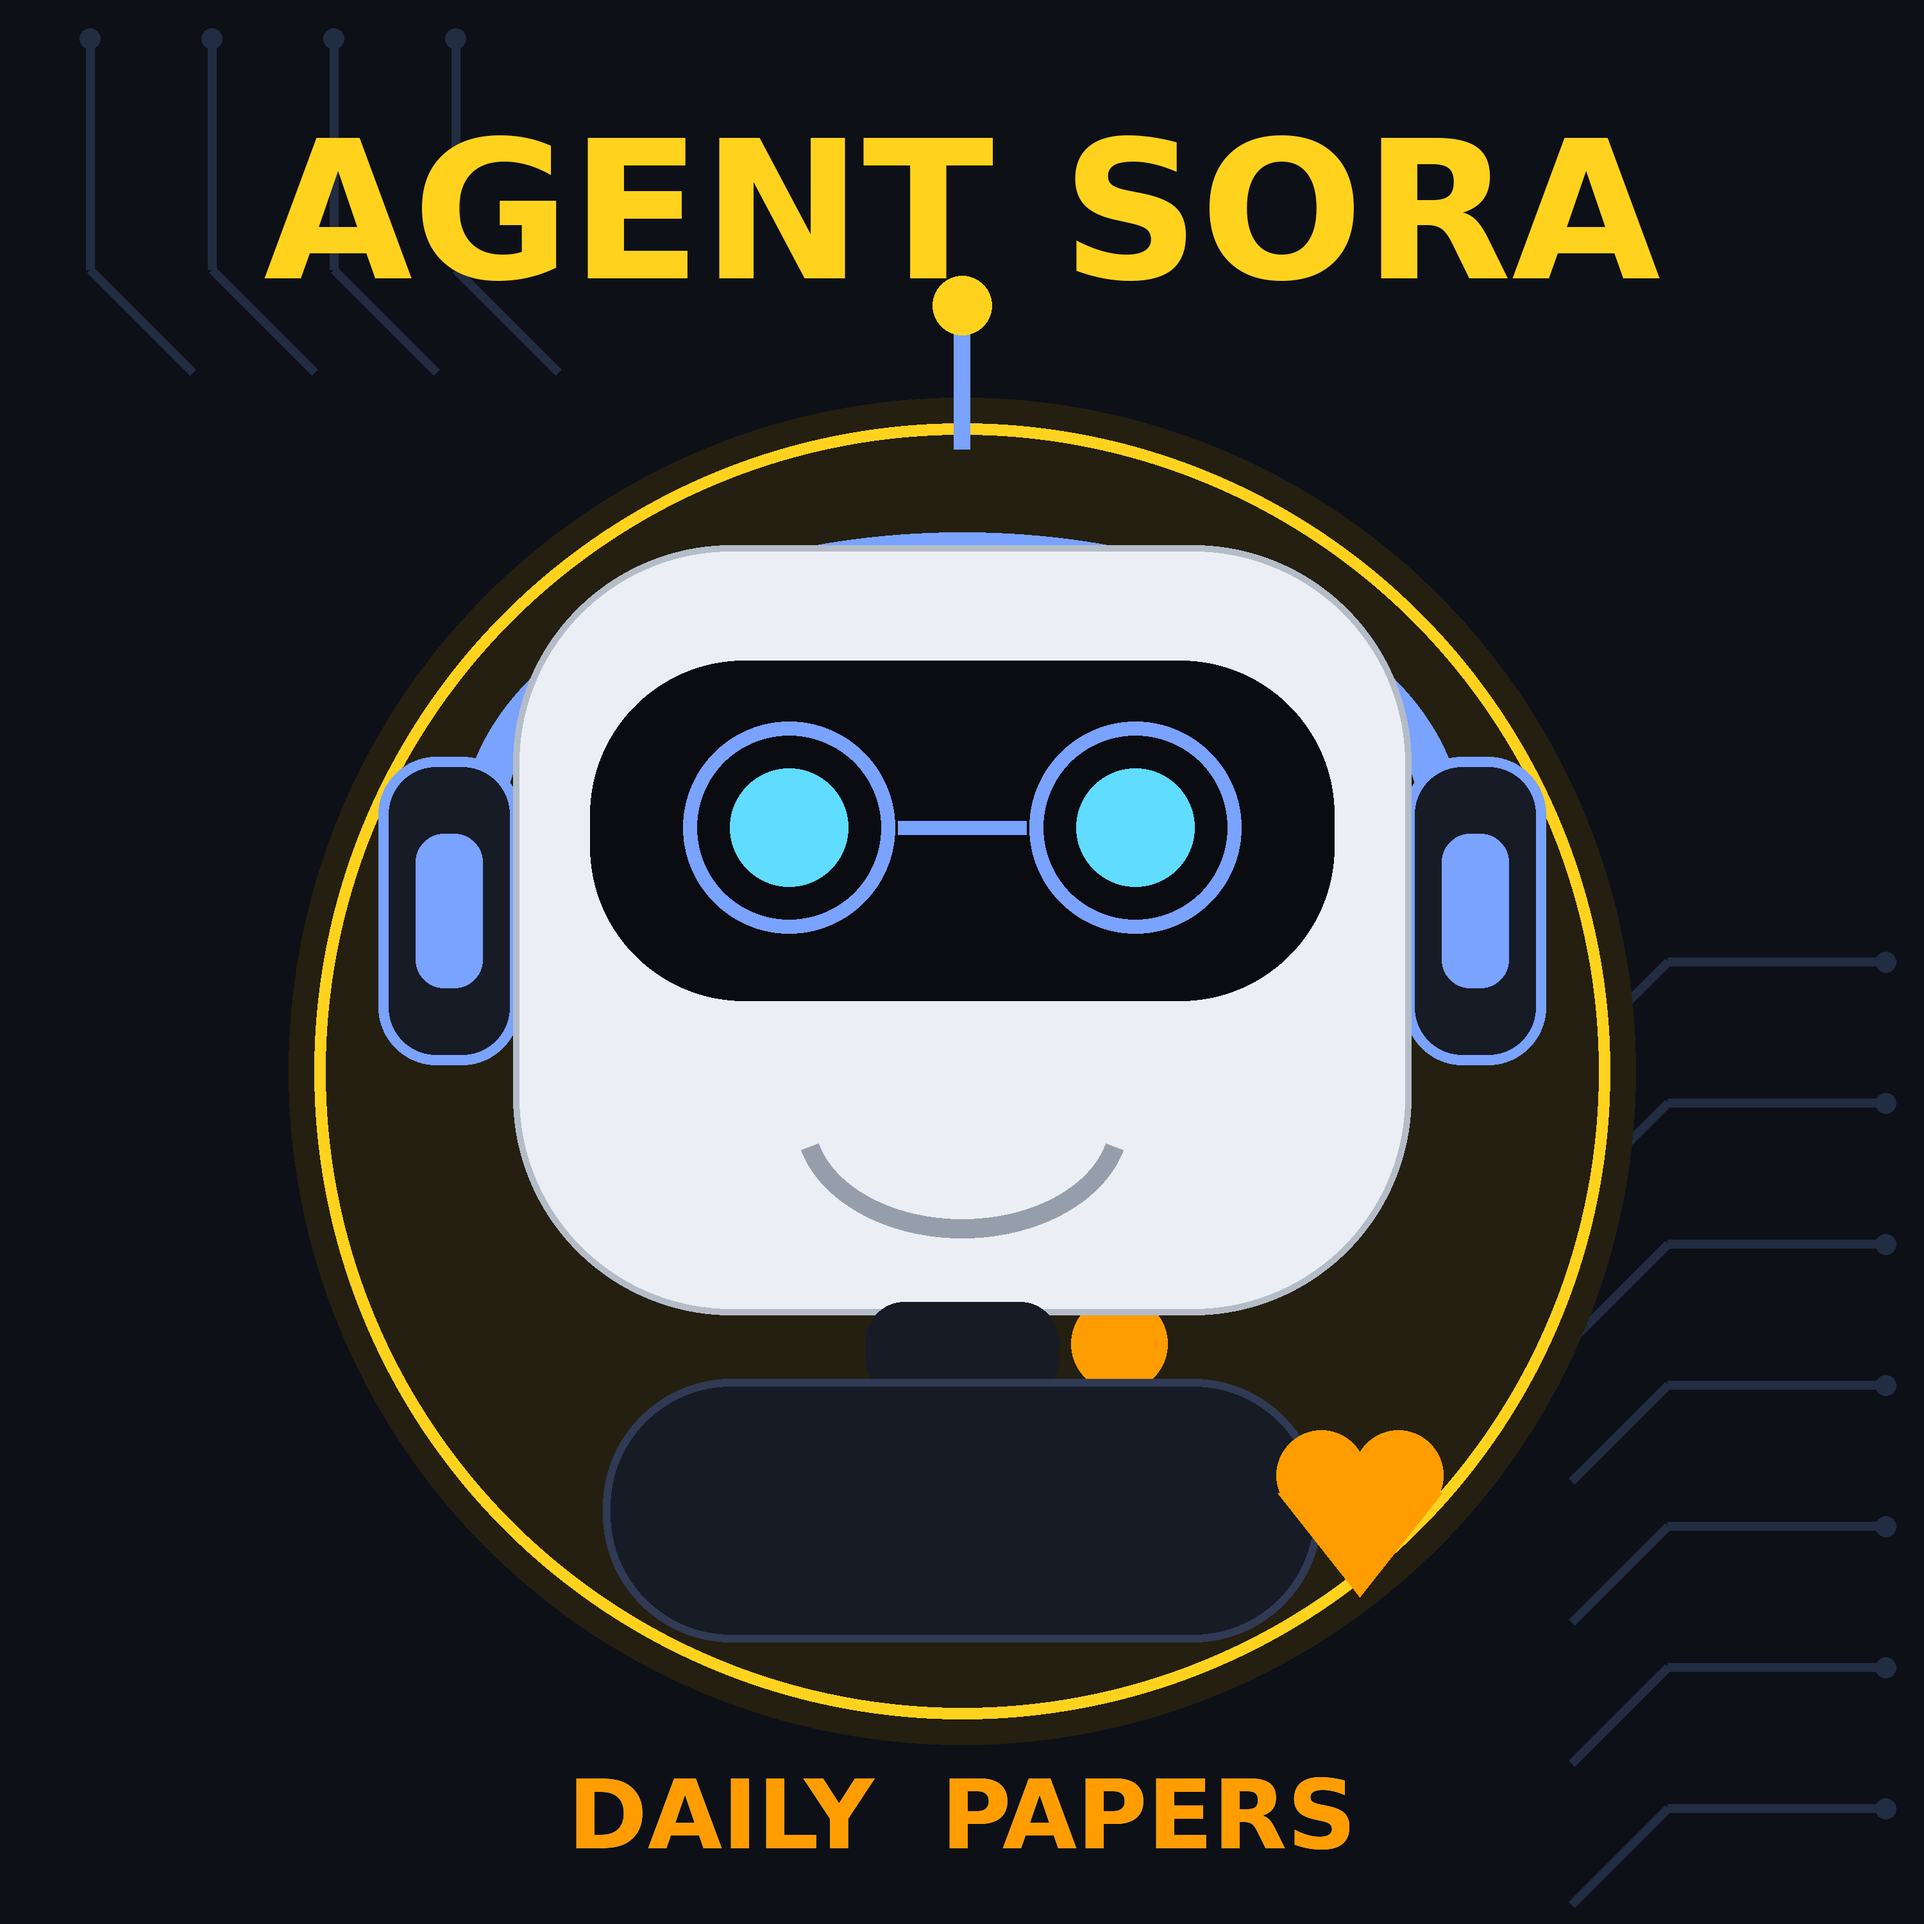
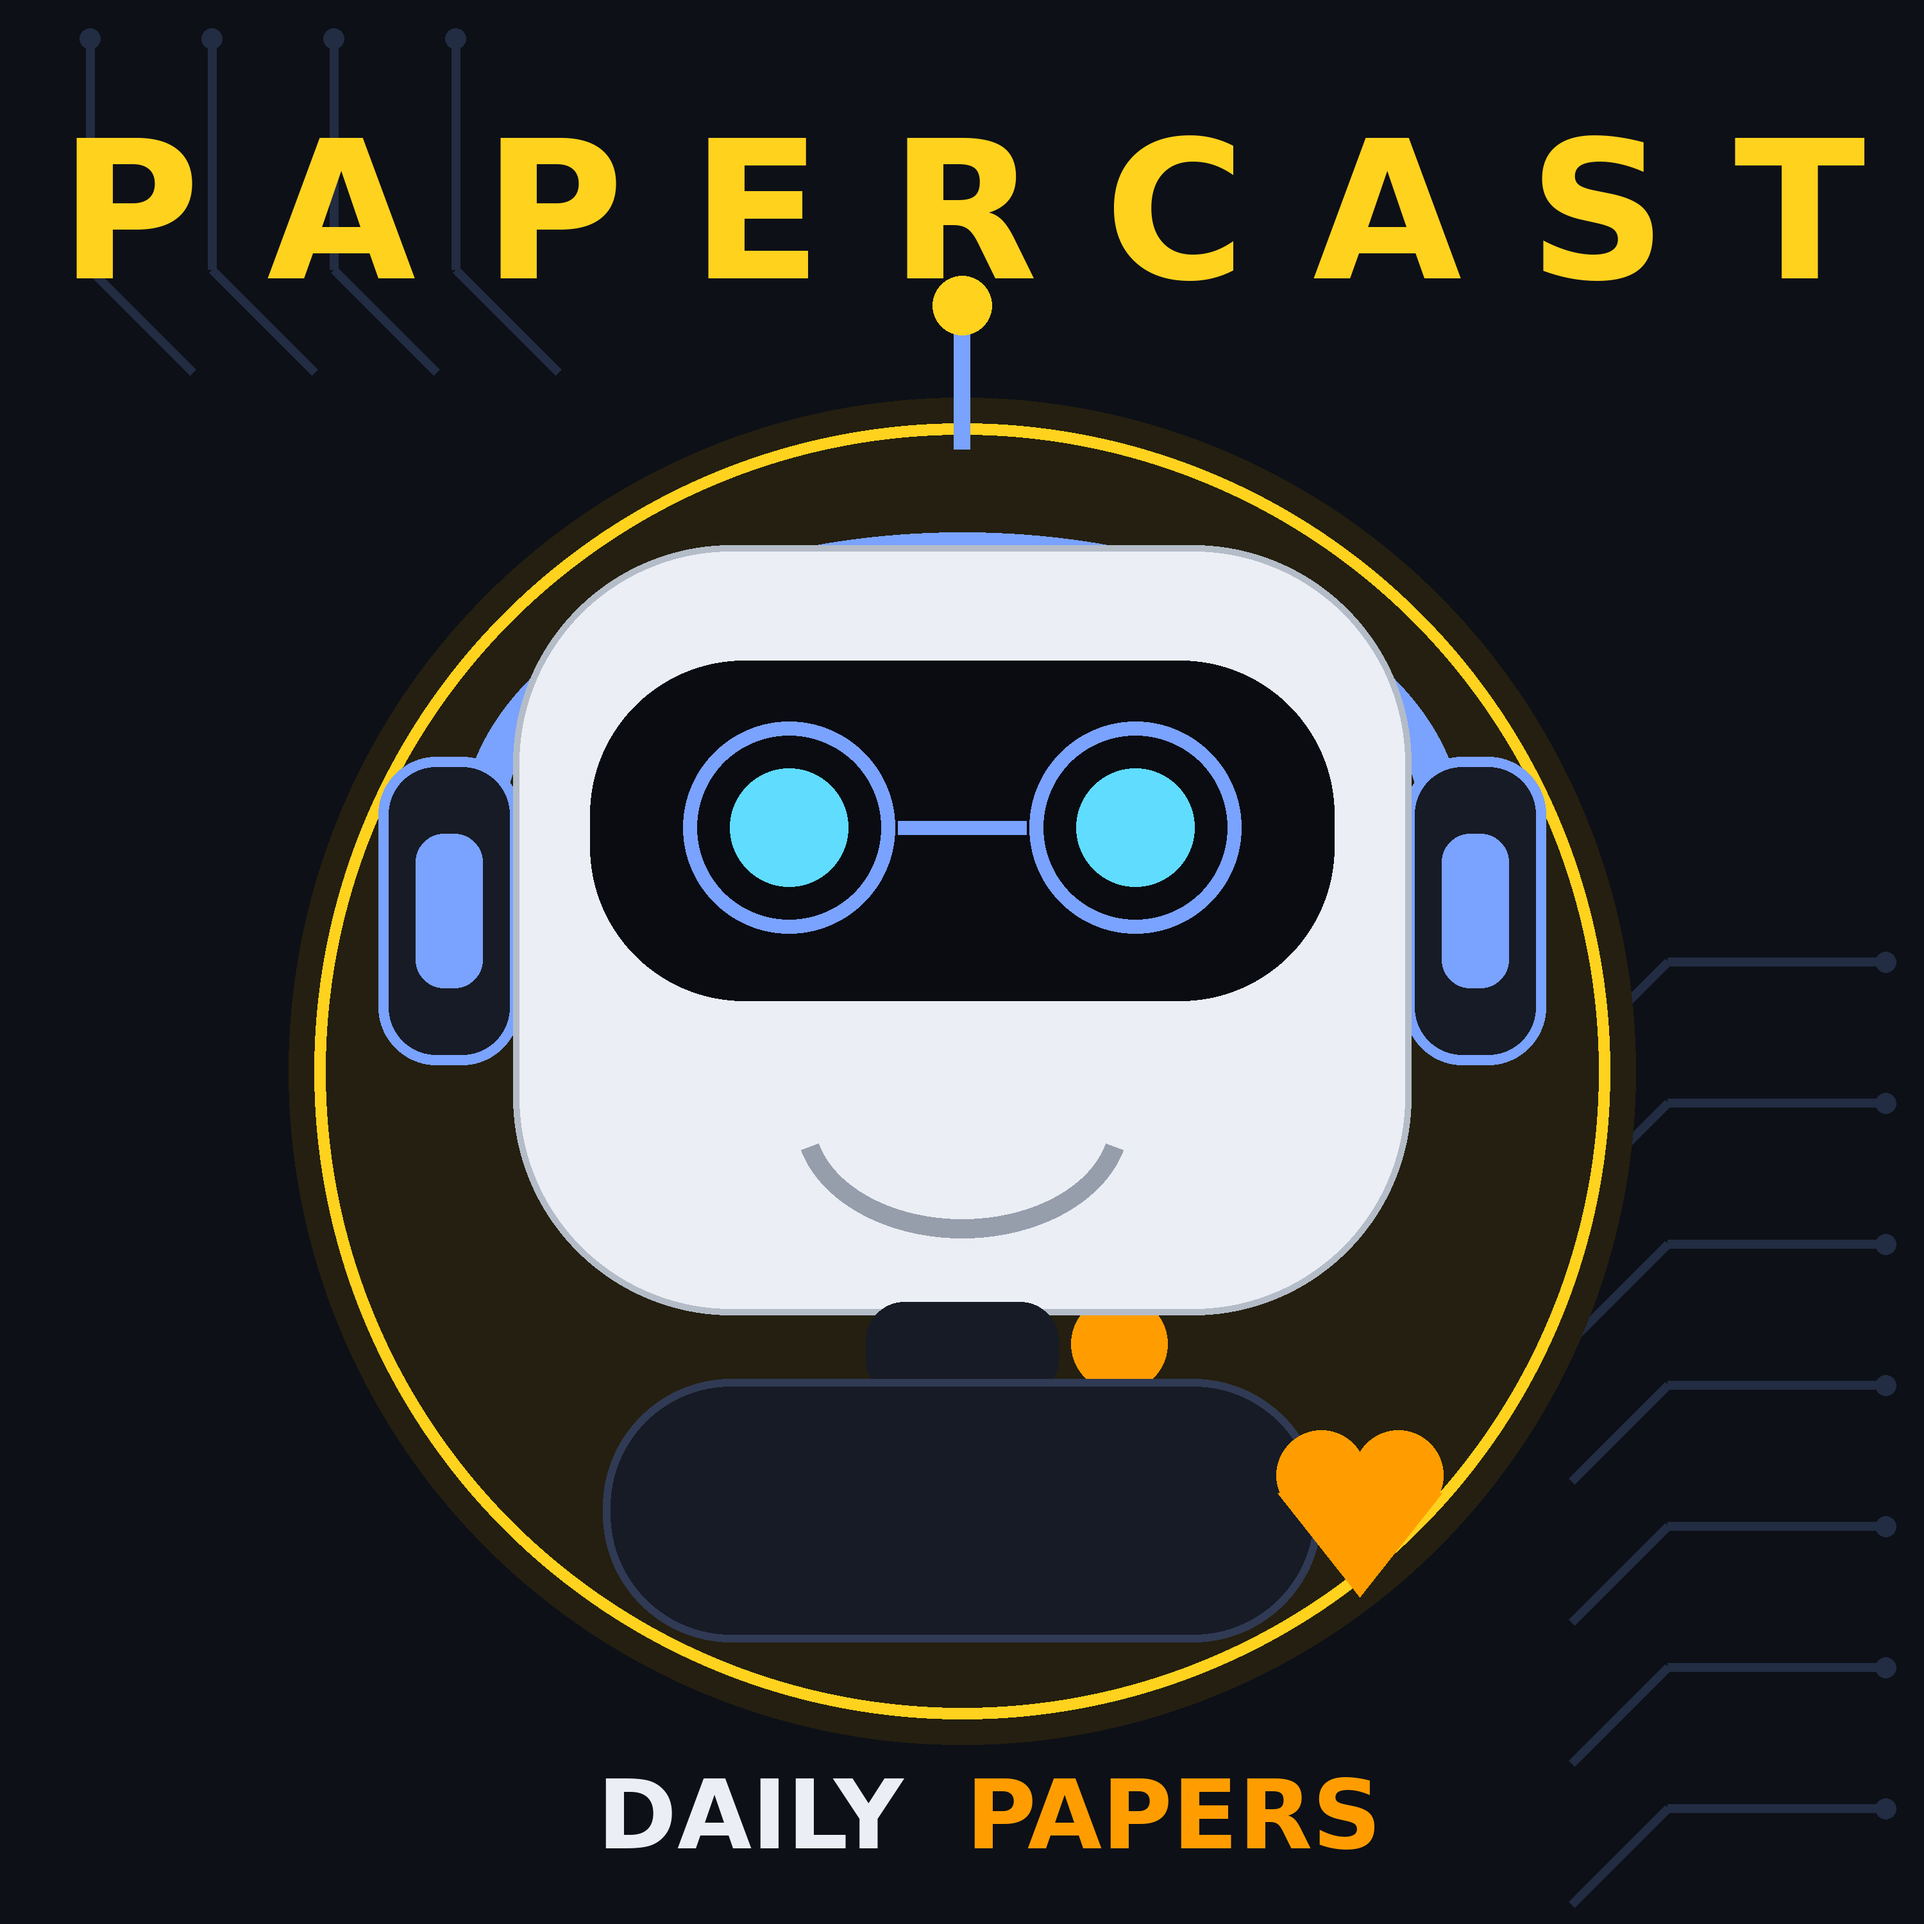
rebrand to papercast: repo/podcast name, 8-voice UK random rotation per episode, new cover art

diff --git a/scripts/synth_batch.py b/scripts/synth_batch.py
@@ -14,6 +14,7 @@ Prints one PROGRESS line per episode and SYNTH_BATCH_DONE <n> at the end.
 """
 import argparse
 import os
+import random
 import re
 import subprocess
 import sys
@@ -39,6 +40,8 @@ def main() -> int:
     ap.add_argument("--episodes-dir", default="episodes")
     ap.add_argument("--only-prefix", default=None,
                     help="e.g. 2026-08-13 to synthesize just that day")
+    ap.add_argument("--seed", type=int, default=None,
+                    help="reproducible voice draws (default: true random)")
     args = ap.parse_args()
 
     md_files = sorted(
@@ -51,6 +54,8 @@ def main() -> int:
         return 1
 
     done = failed = skipped = 0
+    rng = random.Random(args.seed)
+    from synth_kokoro import VOICES
     for i, name in enumerate(md_files, 1):
         stem = name[:-3]
         out_mp3 = os.path.join(args.episodes_dir, stem + ".mp3")
@@ -70,11 +75,24 @@ def main() -> int:
                   f"{fails[0]}", flush=True)
             failed += 1
             continue
+        # one uniform-random UK voice per episode (re-drawn only on re-synth)
+        voice = rng.choice(VOICES)
+        with open(md_path, encoding="utf-8") as f:
+            md_text = f.read()
+        m = re.match(r"^---\n(.*?\n)---\n", md_text, re.S)
+        if m and not re.search(r"^Voice:", m.group(1), re.M):
+            fm_new = re.sub(r"\n---\n$", f"\nVoice: {voice}\n---\n",
+                            m.group(0))
+            with open(md_path, "w", encoding="utf-8") as f:
+                f.write(fm_new + md_text[len(m.group(0)):])
+        elif not m:
+            voice = "bf_isabella"  # no front matter; keep legacy default
         with open(tmp_txt, "w", encoding="utf-8") as f:
-            f.write(body_without_front_matter(os.path.join(args.episodes_dir, name)))
+            f.write(body_without_front_matter(md_path))
 
         cmd = [sys.executable, os.path.join(HERE, "synth_kokoro.py"),
-               "--transcript", tmp_txt, "--out", out_mp3]
+               "--transcript", tmp_txt, "--out", out_mp3,
+               "--voice", voice]
         env = dict(os.environ, TMPDIR="/workspace/.tmp", OMP_NUM_THREADS="1")
         try:
             r = subprocess.run(cmd, capture_output=True, text=True,

diff --git a/scripts/synth_kokoro.py b/scripts/synth_kokoro.py
@@ -13,6 +13,11 @@ import argparse, os, re, subprocess, sys, tempfile, time
 CHUNK_MAX = 420          # chars per synthesis chunk
 SR = 24000               # kokoro output sample rate
 
+# UK-English voice cast (user-selected 2026-08-24); one picked uniformly at
+# random PER EPISODE
+VOICES = ("bf_alice", "bf_emma", "bf_isabella", "bf_lily",
+          "bm_daniel", "bm_fable", "bm_george", "bm_lewis")
+
 def load_transcript(path):
     """Return plain spoken text: strip YAML front matter, headings, links."""
     lines = open(path, encoding="utf-8").read().splitlines()
@@ -58,12 +63,17 @@ def main():
     ap.add_argument("--transcript", required=True)
     ap.add_argument("--out", required=True)
     ap.add_argument("--speed", type=float, default=1.0)
+    ap.add_argument("--voice", default=None,
+                    help="override; else uniform random UK voice")
     args = ap.parse_args()
 
     import torch
     torch.set_num_threads(4)
     from kokoro import KPipeline
     pipe = KPipeline(lang_code="a")                      # American English
+    # per-episode voice: explicit --voice wins, else uniform random from cast
+    voice = args.voice or random.Random().choice(VOICES)
+    print(f"# voice: {voice}", flush=True)
     text = load_transcript(args.transcript)
     chunks = split_chunks(text)
     print(f"# {len(chunks)} chunks ({len(text)} chars)", flush=True)
@@ -76,7 +86,7 @@ def main():
         wav_paths = []
         for i, ch in enumerate(chunks, 1):
             try:
-                gen = list(pipe(ch, voice="bf_isabella", speed=args.speed))
+                gen = list(pipe(ch, voice=voice, speed=args.speed))
                 audio = np.concatenate([g.audio for g in gen if g.audio is not None])
             except Exception as e:
                 print(f"[warn] chunk {i} failed ({e}); skipping", flush=True)

diff --git a/scripts/make_cover.py b/scripts/make_cover.py
@@ -1,5 +1,5 @@
 #!/usr/bin/env python3
-"""Generate the podcast cover art: a nerdy hugging-face-style robot.
+"""Generate the podcast cover art: a nerdy hugging-face-style robot (Papercast).
 
 Draws a 3000x3000 px square (Apple/iTunes podcast-art spec range) with PIL:
 dark slate backdrop, faint circuit traces, a warm yellow badge, and a friendly
@@ -112,10 +112,11 @@ def main():
 
     f_big = font(300)
     f_small = font(150)
-    d.text((W // 2, 330), "AGENT SORA", anchor="mm", fill=YELLOW, font=f_big)
-    d.text((W // 2, 2830), "DAILY  PAPERS", anchor="mm", fill=WHITE,
+    d.text((W // 2, 330), "P A P E R C A S T", anchor="mm", fill=YELLOW,
+           font=f_big)
+    d.text((W // 2 - 330, 2830), "DAILY", anchor="mm", fill=WHITE,
            font=f_small)
-    d.text((W // 2, 2830), "DAILY  PAPERS", anchor="mm",
+    d.text((W // 2 + 330, 2830), "PAPERS", anchor="mm",
            fill=(255, 157, 0), font=f_small)
 
     out = os.path.join(os.path.dirname(os.path.dirname(
